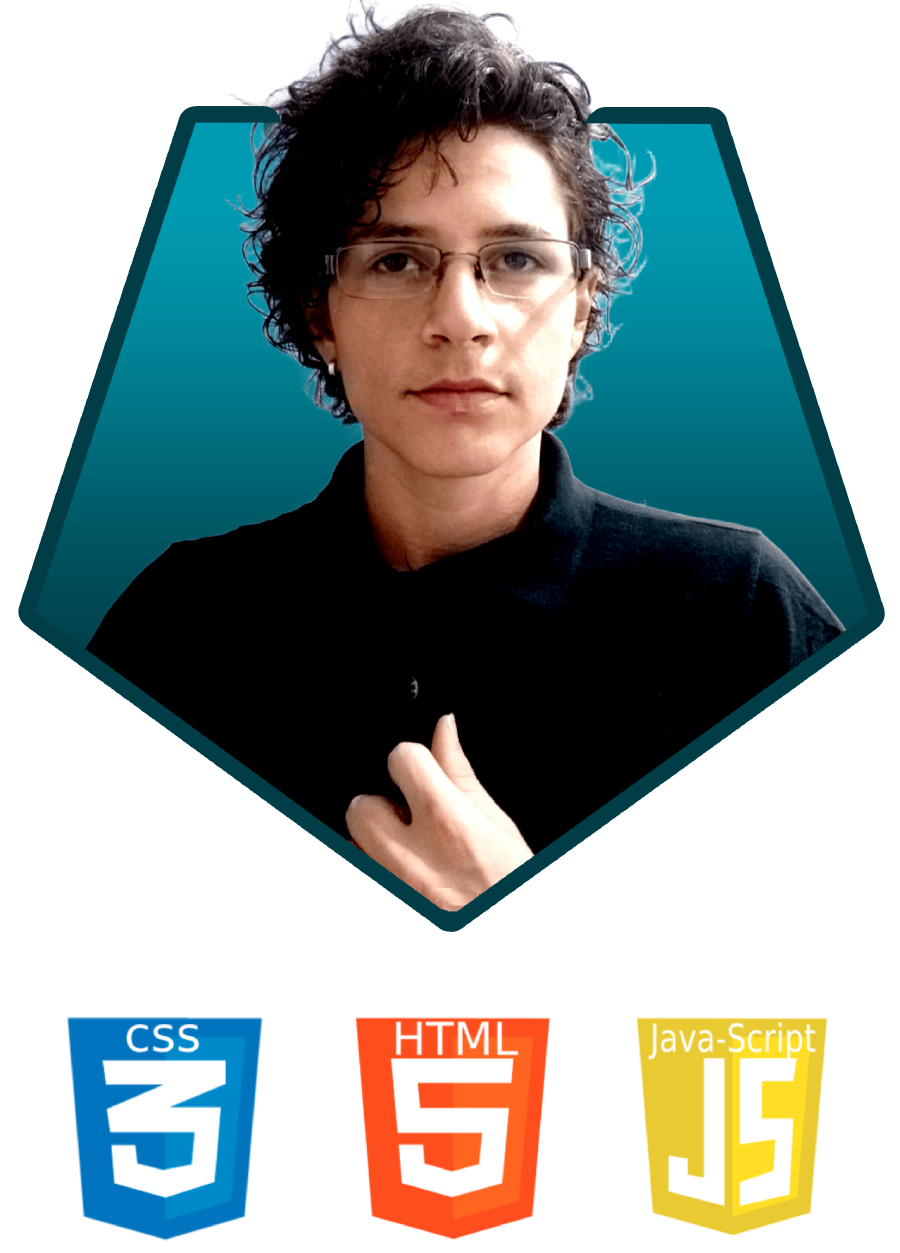
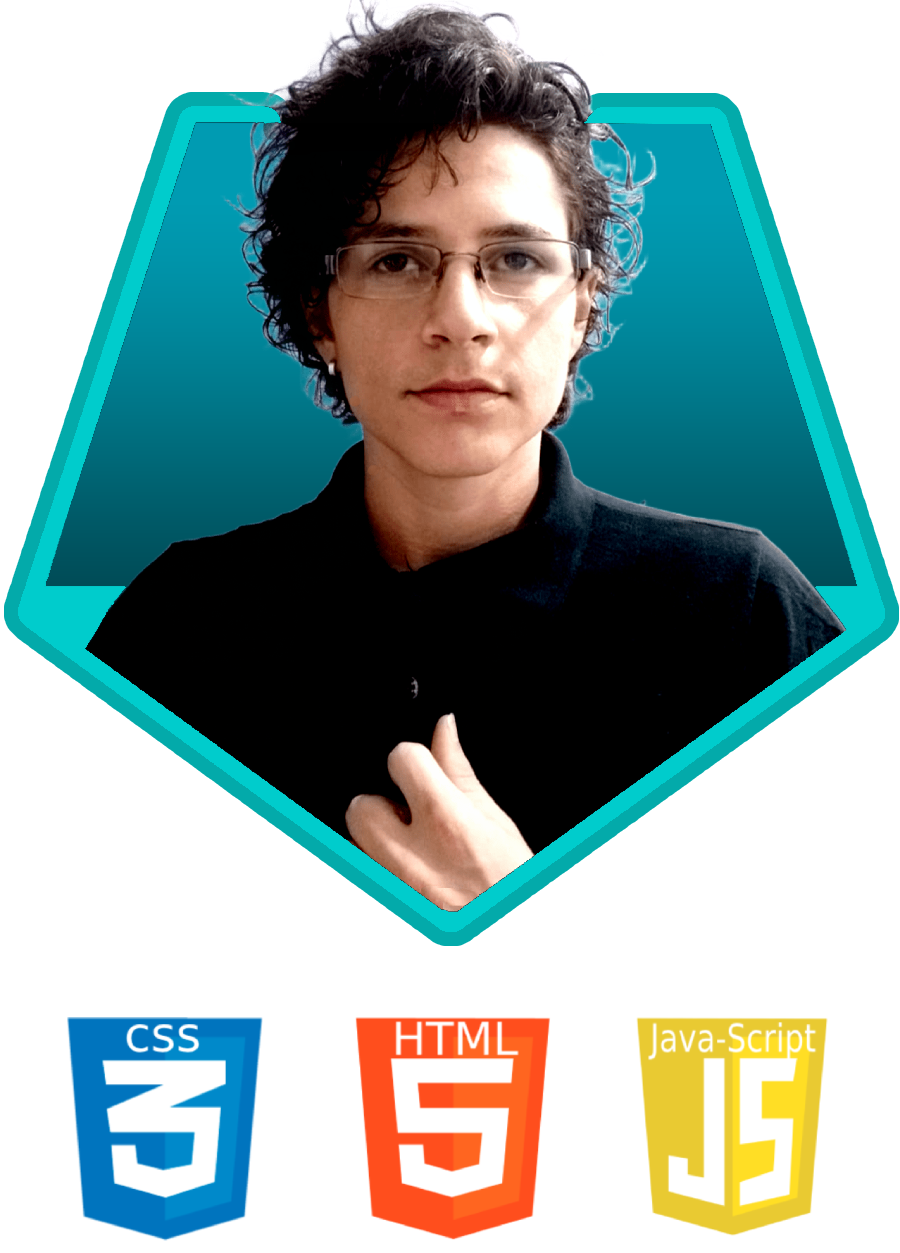
mudei as cores e profundidade

Changed region(s): [[0.0, 0.0623, 1.0, 0.7781]]

diff --git a/style/pagina-principal/style.css b/style/pagina-principal/style.css
@@ -20,8 +20,8 @@ body {
 
 main {
     flex: 1;
-    box-shadow: inset 0px 0px 6px 0px #000000cc;
-    background-image: linear-gradient(#003d46, #04a6bb);
+    box-shadow: inset 0px 0px 4px 0px #00000071;
+    background-image: linear-gradient(#006a7a, #04a6bb);
 }
 
 hr {
@@ -55,7 +55,7 @@ hr {
 #header-container {
     display: flex;
     justify-content: space-evenly;
-    background-image: linear-gradient(to right, #026e7c00, #00282e, #0283946b, #026e7c23);
+    background-image: linear-gradient(to right, #0597ad, #03bcd46b);
     width: 100%;
 
 }
@@ -73,7 +73,7 @@ hr {
     font-weight: bold;
     font-size: 14px;
     text-decoration: none;
-    background-color: #002c33;
+    background-color: #015d6b;
     border-radius: 5px;
     padding: 8px;
     transition: all .5s;
@@ -97,22 +97,6 @@ hr {
 }
 
 
-
-#whats, #git{
-    display: inline-block;
-    padding: 8px !important;
-    margin: -8px 0px 0px 0px;
-    
-}
-
-#whats > img{
-    width: 15px;
-    
-}
-#git > img{
-    width: 15px;
-}
-
 #ul-filho-header2 > li > a > img {
     width: 30px;
     margin: 0px;
@@ -120,14 +104,13 @@ hr {
 }
 
 #ul-filho-header>li>a:hover {
-    background-color: #003f47;
-    box-shadow: 0px 0px 0px 5px #003f47;
+    background-color: #014750;
 }
 
 #logo {
     display: flex;
     height: 51px;
-    filter: drop-shadow(3px 3px 0px black);
+    filter: drop-shadow(1px 1px 0px #00000081);
 }
 
 #logo>img {
@@ -139,7 +122,7 @@ hr {
 h1 {
     text-shadow: none;
     text-align: center;
-    background-image: linear-gradient(to right, #43cffa, #b5eeff, #b5eeff, #43cffa);
+    background-image: linear-gradient(to right, #43cffa, #55e7fa, #b5eeff, #43cffa);
     background-clip: text;
     color: transparent;
     /* color: #43cffa; */
@@ -155,7 +138,7 @@ h1 {
 
 #img-apre>img {
     width: 280px;
-    filter: drop-shadow(5px 8px 2px black);
+    filter: drop-shadow(5px 8px 10px #00000036);
     animation: crescer 2s ease-out;
 }
 
@@ -174,10 +157,11 @@ h1 {
     padding: 10px;
     font-size: 15px;
     width: 500px;
+    height: 100%;
     color: #ffffff;
-    background-color: #00000052;
-    /* text-shadow: 2px 2px 3px rgba(0, 0, 0, 0.438); */
-    box-shadow: 2px 2px 8px 2px #000000;
+    background-color: #04a6bb83;
+    border: 1px solid #3ae8ff;
+    box-shadow: 0px 0px 5px 0px #0000004d;
 }
 
 #apre-filho>p {
@@ -190,10 +174,10 @@ h1 {
 }
 
 footer {
-    color: #a7f5ff;
+    color: #eafdff;
     padding: 1px;
     text-align: center;
-    background-image: linear-gradient(to right, #026e7c00, #00282e, #002429d5, #026e7c23);
+    background-image: linear-gradient(to right, #04a6bb, #04a6bb);
 }
 
 /*---------------------------------------keyframe--------------------------------------------------*/

diff --git a/index.html b/index.html
@@ -30,7 +30,7 @@
         
            
     </header>
-
+    
     <main>
         <section id="apre-container">
 
